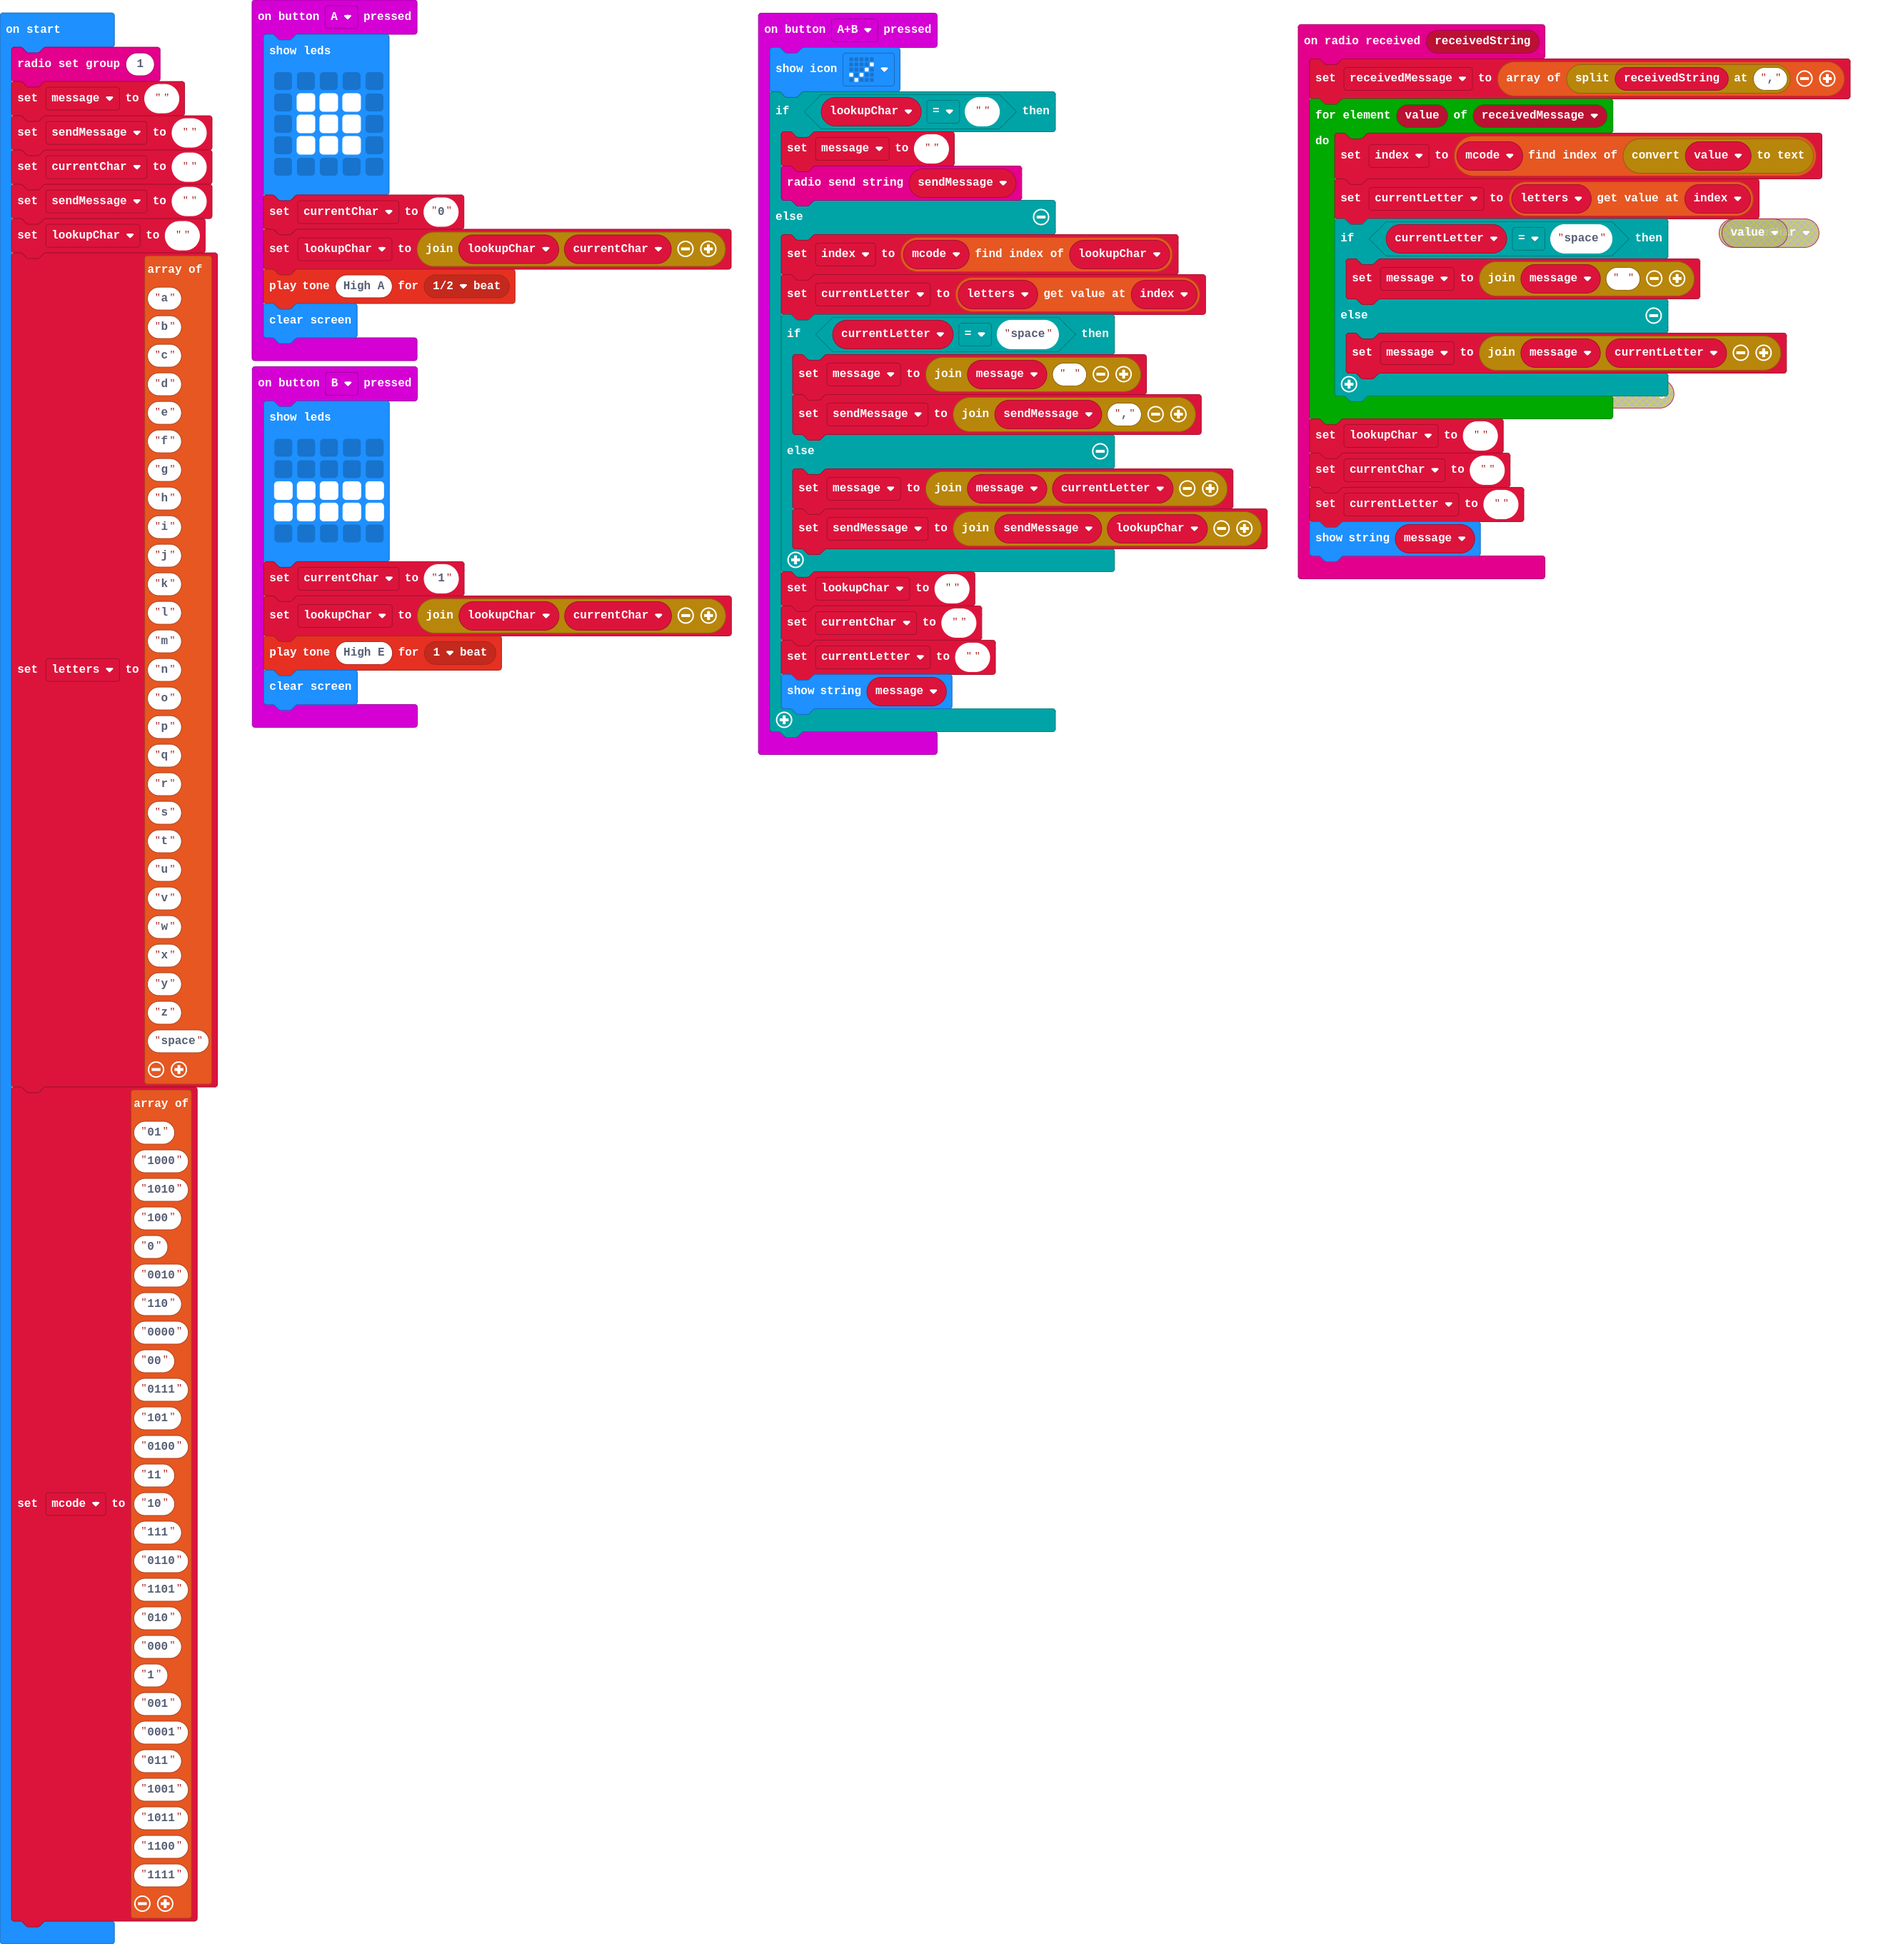
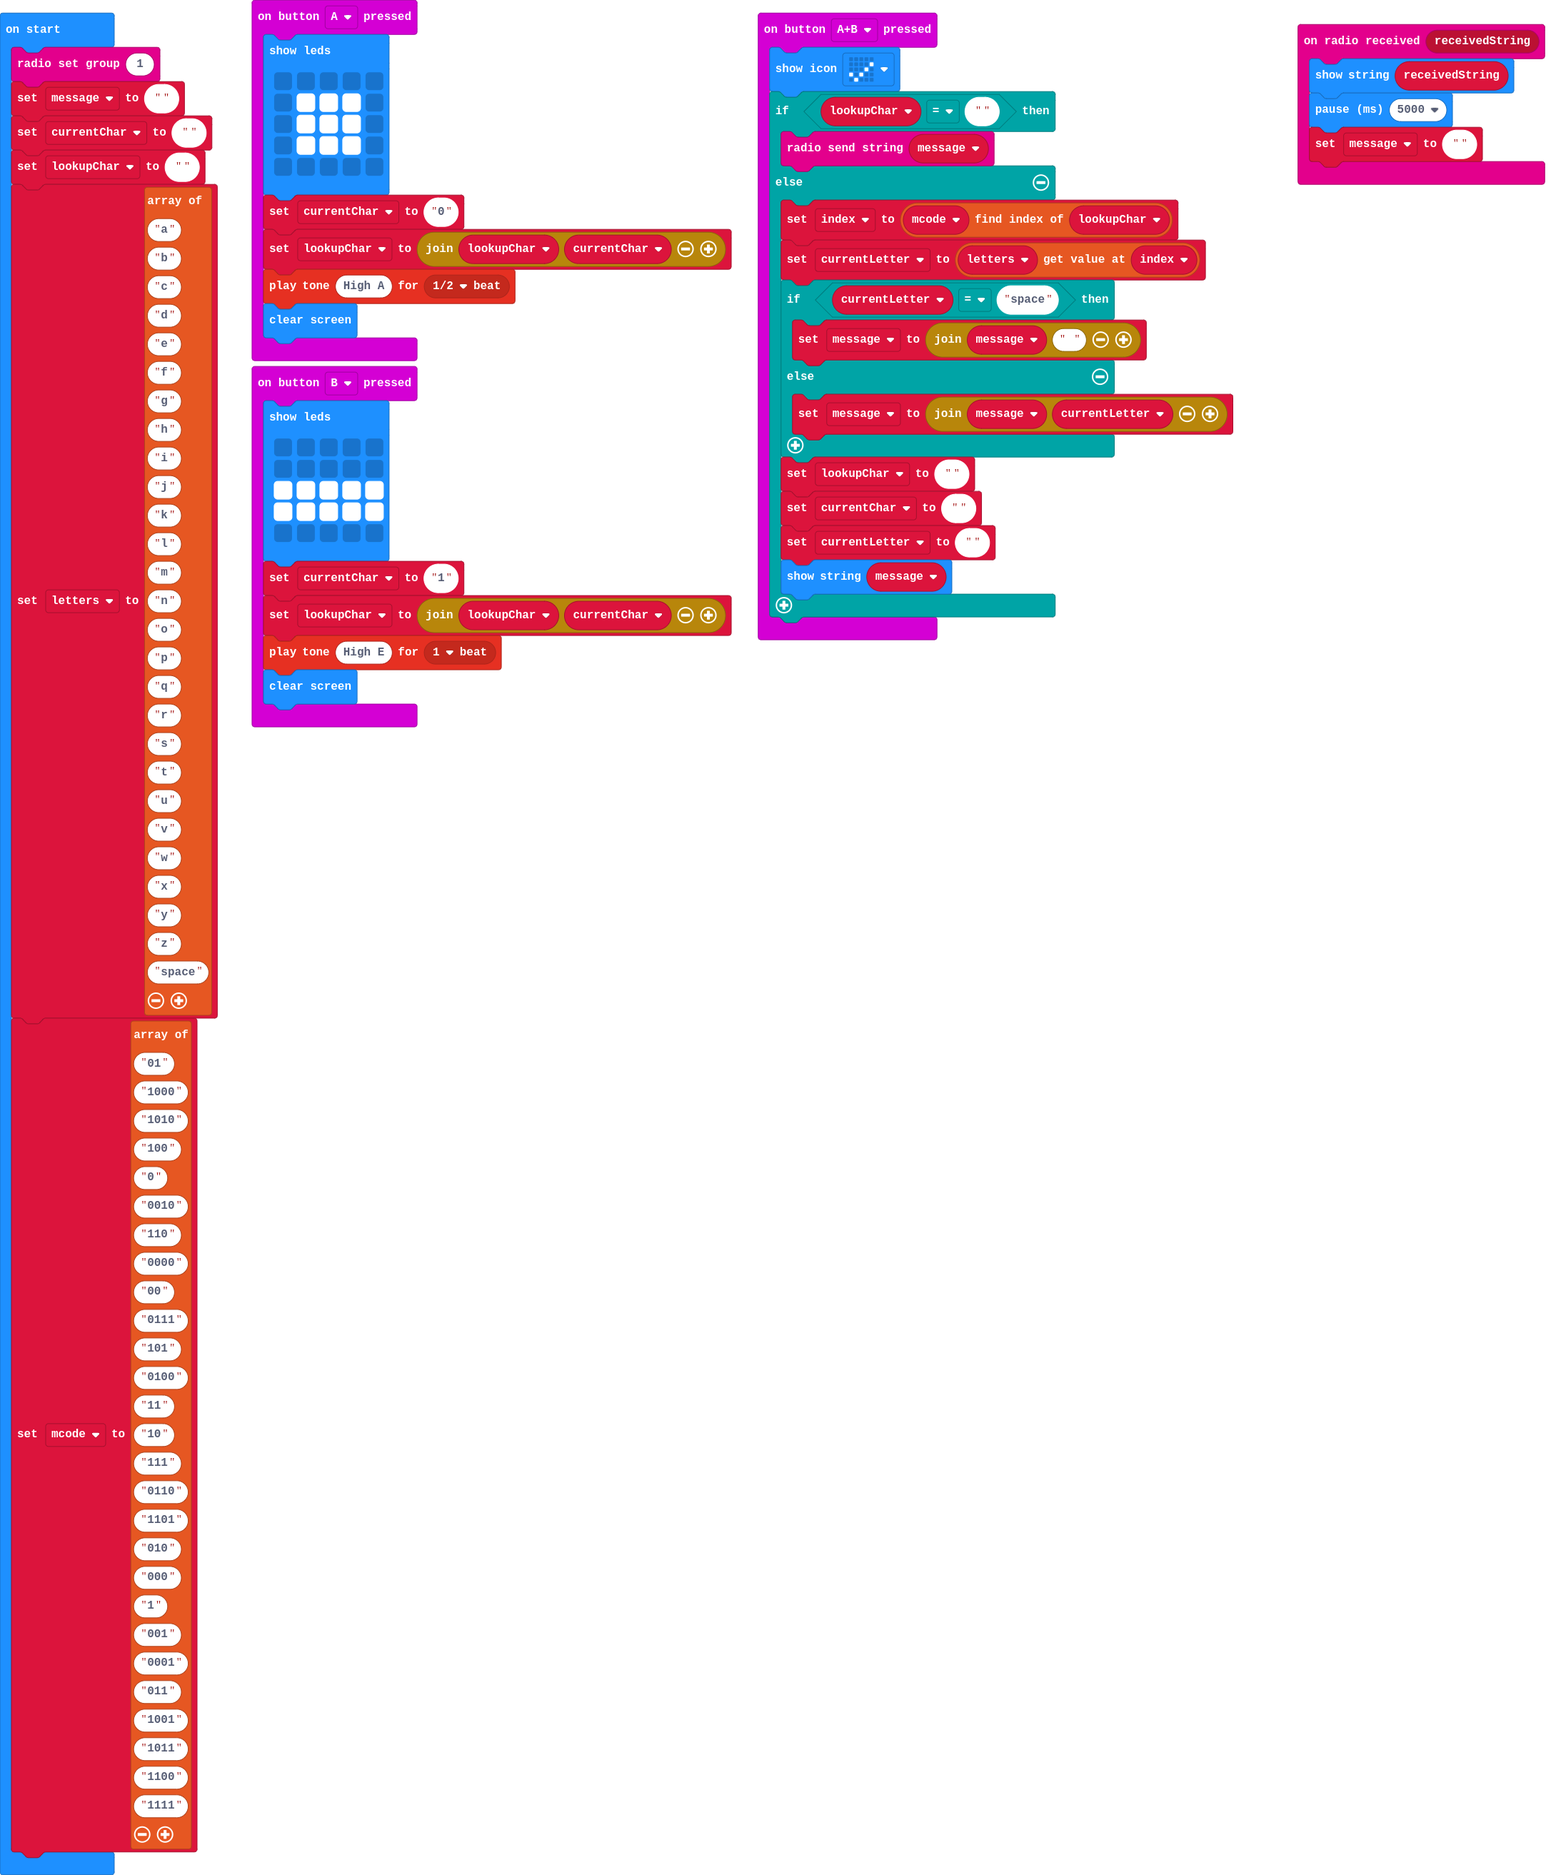
Final Version

Changed region(s): [[0.0, 0.0, 1.0, 1.0], [0.0, 0.5308, 0.0308, 0.5621]]

diff --git a/main.ts b/main.ts
@@ -14,39 +14,25 @@ input.onButtonPressed(Button.A, function () {
 input.onButtonPressed(Button.AB, function () {
     basic.showIcon(IconNames.Yes)
     if (lookupChar == "") {
-        message = ""
-        radio.sendString(sendMessage)
+        radio.sendString("" + (message))
     } else {
         index = mcode.indexOf(lookupChar)
         currentLetter = letters[index]
         if (currentLetter == "space") {
             message = "" + message + " "
-            sendMessage = "" + sendMessage + ","
         } else {
             message = "" + message + currentLetter
-            sendMessage = "" + sendMessage + lookupChar
         }
         lookupChar = ""
         currentChar = ""
         currentLetter = ""
-        basic.showString(message)
+        basic.showString("" + (message))
     }
 })
 radio.onReceivedString(function (receivedString) {
-    receivedMessage = [receivedString.split(",")]
-    for (let value of receivedMessage) {
-        index = mcode.indexOf(convertToText(value))
-        currentLetter = letters[index]
-        if (currentLetter == "space") {
-            message = "" + message + " "
-        } else {
-            message = "" + message + currentLetter
-        }
-    }
-    lookupChar = ""
-    currentChar = ""
-    currentLetter = ""
-    basic.showString(message)
+    basic.showString(receivedString)
+    basic.pause(5000)
+    message = ""
 })
 input.onButtonPressed(Button.B, function () {
     basic.showLeds(`
@@ -61,20 +47,16 @@ input.onButtonPressed(Button.B, function () {
     music.playTone(659, music.beat(BeatFraction.Whole))
     basic.clearScreen()
 })
-let receivedMessage: string[][] = []
 let currentLetter = ""
 let index = 0
 let mcode: string[] = []
 let letters: string[] = []
 let lookupChar = ""
 let currentChar = ""
-let sendMessage = ""
 let message = ""
 radio.setGroup(1)
 message = ""
-sendMessage = ""
 currentChar = ""
-sendMessage = ""
 lookupChar = ""
 letters = ["a", "b", "c", "d", "e", "f", "g", "h", "i", "j", "k", "l", "m", "n", "o", "p", "q", "r", "s", "t", "u", "v", "w", "x", "y", "z", "space"]
 mcode = ["01", "1000", "1010", "100", "0", "0010", "110", "0000", "00", "0111", "101", "0100", "11", "10", "111", "0110", "1101", "010", "000", "1", "001", "0001", "011", "1001", "1011", "1100", "1111"]

diff --git a/main.py b/main.py
@@ -1,3 +1,120 @@
-def on_forever():
-    pass
-basic.forever(on_forever)
+def on_button_pressed_a():
+    global currentChar, lookupChar
+    basic.show_leds("""
+        . . . . .
+        . # # # .
+        . # # # .
+        . # # # .
+        . . . . .
+        """)
+    currentChar = "0"
+    lookupChar = "" + lookupChar + currentChar
+    music.play_tone(880, music.beat(BeatFraction.HALF))
+    basic.clear_screen()
+input.on_button_pressed(Button.A, on_button_pressed_a)
+
+def on_button_pressed_ab():
+    global index, currentLetter, message, lookupChar, currentChar
+    basic.show_icon(IconNames.YES)
+    if lookupChar == "":
+        radio.send_string("" + (message))
+    else:
+        index = mcode.index(lookupChar)
+        currentLetter = letters[index]
+        if currentLetter == "space":
+            message = "" + message + " "
+        else:
+            message = "" + message + currentLetter
+        lookupChar = ""
+        currentChar = ""
+        currentLetter = ""
+        basic.show_string("" + (message))
+input.on_button_pressed(Button.AB, on_button_pressed_ab)
+
+def on_received_string(receivedString):
+    global message
+    basic.show_string(receivedString)
+    basic.pause(5000)
+    message = ""
+radio.on_received_string(on_received_string)
+
+def on_button_pressed_b():
+    global currentChar, lookupChar
+    basic.show_leds("""
+        . . . . .
+        . . . . .
+        # # # # #
+        # # # # #
+        . . . . .
+        """)
+    currentChar = "1"
+    lookupChar = "" + lookupChar + currentChar
+    music.play_tone(659, music.beat(BeatFraction.WHOLE))
+    basic.clear_screen()
+input.on_button_pressed(Button.B, on_button_pressed_b)
+
+currentLetter = ""
+index = 0
+mcode: List[str] = []
+letters: List[str] = []
+lookupChar = ""
+currentChar = ""
+message = ""
+radio.set_group(1)
+message = ""
+currentChar = ""
+lookupChar = ""
+letters = ["a",
+    "b",
+    "c",
+    "d",
+    "e",
+    "f",
+    "g",
+    "h",
+    "i",
+    "j",
+    "k",
+    "l",
+    "m",
+    "n",
+    "o",
+    "p",
+    "q",
+    "r",
+    "s",
+    "t",
+    "u",
+    "v",
+    "w",
+    "x",
+    "y",
+    "z",
+    "space"]
+mcode = ["01",
+    "1000",
+    "1010",
+    "100",
+    "0",
+    "0010",
+    "110",
+    "0000",
+    "00",
+    "0111",
+    "101",
+    "0100",
+    "11",
+    "10",
+    "111",
+    "0110",
+    "1101",
+    "010",
+    "000",
+    "1",
+    "001",
+    "0001",
+    "011",
+    "1001",
+    "1011",
+    "1100",
+    "1111"]
